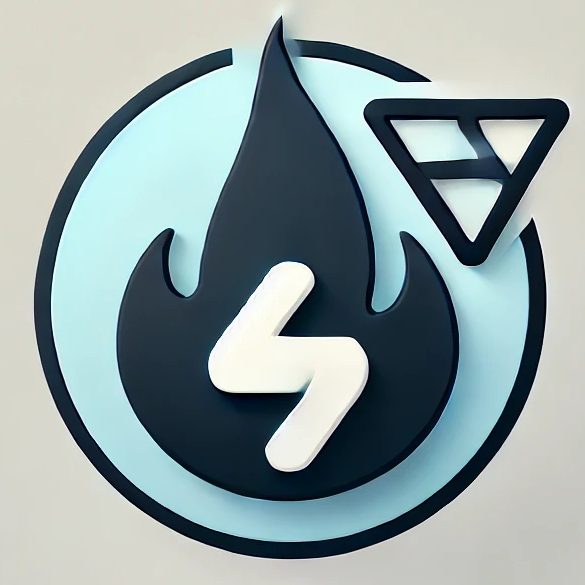
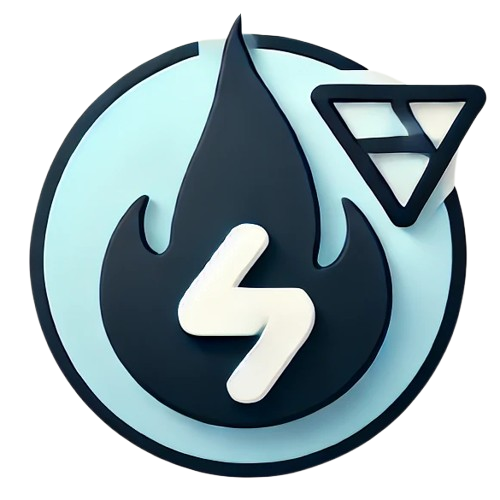
chore: 로고 및 아이콘 배경 투명한 걸루 교체

diff --git a/README.md b/README.md
@@ -2,7 +2,9 @@
   <img src="https://supa-next-todolist.vercel.app/supa_next_vercel.png" alt="Supa Next Todo 로고">
 </p>
 
-<p align="center">Supa Next Todo</p>
+<p align="center">
+  <strong style="font-size: 24px;">Supa Next Todo</strong>
+</p>
 
 ## Todo 예제
 
